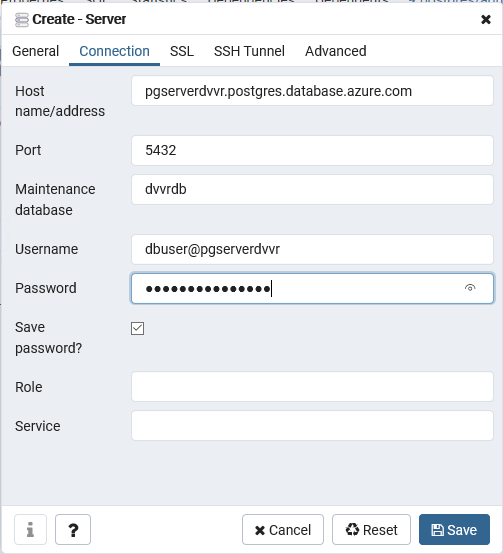
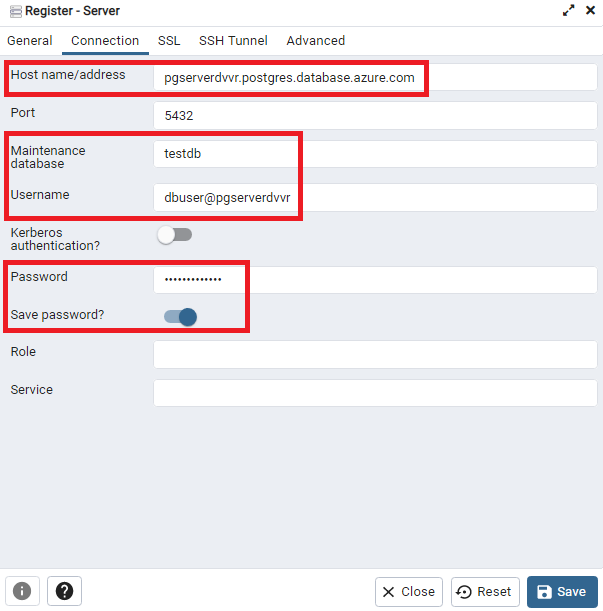
092222 DV

diff --git a/Azure Database for PostgreSQL Single Server/07 Managing database users in Azure Database for PostgreSQL Single Server/readme.md b/Azure Database for PostgreSQL Single Server/07 Managing database users in Azure Database for PostgreSQL Single Server/readme.md
@@ -15,7 +15,7 @@ After completing this lab, you will be able to:
 
 This lab considers that an Azure Database for PostgreSQL Single Server named pgserver[your name initials] exists with a server admin login named *admpg*, if not, create it or use another existing server before continuing with the lab.
 
-**Estimated Time:** 1 hour 35 minutes
+**Estimated Time:** 60 minutes
 
 ---
 
@@ -27,47 +27,38 @@ This exercise shows how to create additional admin users in Azure Database for P
 
 1. Connect to Microsoft Azure Portal
     
-   Open Microsoft Edge and navigate to the Azure Portal ([http://ms.portal.azure.com](http://ms.portal.azure.com)) to connect to Microsoft Azure Portal. Login with your subscriptions credential.
+   Open Microsoft Edge and navigate to the [Azure Portal](http://ms.portal.azure.com) to connect to Microsoft Azure Portal. Login with your subscriptions credential.
 
-1. Go to your Azure Database for MySQL Single server in any way you prefer to look for a resource on Azure, you will use following server information in the next step
+1. Go to your Azure Database for PostgreSQL Single server in any way you prefer to look for a resource on Azure. Get the connection information as you will use it during the lab
 
-   ![](Media/image0208.png)
-
-
+   ![Image0208](Media/image0208.png)
 
 1. Connect to your Azure Database for PostgreSQL Single Server using the details from the previous step
 
    Open **pgAdmin** and connect to your server using the admin user.
-   ![](Media/image0209.png)
-   ![](Media/image0210.png)
 
-   Double click on the entry you just created
+   ![Image0209](Media/image0209.png)
+   
+   Expand the server just registered, right click to the *postgres* database and open the **Query Tool**
 
-   ![](Media/image0211.png)
-
-   Open the Query Tool
-
-   ![](Media/image0212.png)
-
-
-
+   ![Image0212](Media/image0212.png)
 
 1. Review the default roles defined when The Azure Database for PostgreSQL Single Server is created
            
    The Azure Database for PostgreSQL Single Server is created with the 3 default roles defined.
+   - azure_pg_admin
+   - azure_superuser
+   - your server admin user
     
-   On the **postgres** database, run the following command:
+   To see all existing roles, execute:
     
    ```sql
    SELECT rolname FROM pg_roles;
    ```
    
    You will see the three default roles defined on every Azure Database for PostgreSQL Single Server:
-   - azure_pg_admin
-   - azure_superuser
-   - your server admin user
     
-   ![](Media/image0213.png)
+   ![Image0213](Media/image0213.png)
     
    >Your server admin user is a member of the *azure_pg_admin* role. However, the server admin account is not part of the azure_superuser role. Since this service is a managed PaaS service, only Microsoft is part of the super user role.
     
@@ -87,20 +78,18 @@ This exercise shows how to create additional admin users in Azure Database for P
     
    ```sql
    CREATE ROLE [new_user] WITH LOGIN NOSUPERUSER INHERIT CREATEDB CREATEROLE NOREPLICATION PASSWORD '[StrongPassword]';
-
    GRANT azure_pg_admin TO [new_user];
    ```
    >IMPORTANT: Replace *[new_user]* with your new username and replace *[StrongPassword]* with your own strong password.
 
-      For example:
+   For example:
 
    ```sql
    CREATE ROLE admin2 WITH LOGIN NOSUPERUSER INHERIT CREATEDB CREATEROLE NOREPLICATION PASSWORD 'SuperStrongPassword!';
-
    GRANT azure_pg_admin TO admin2;
    ```
     
-   ![](Media/image0118.png)
+   ![Image0118](Media/image0118.png)
 
 Congratulations!. You have successfully completed this exercise.
 
@@ -112,38 +101,27 @@ This exercise shows how to Create less privileged users and roles that have acce
 
 **Tasks**
 
-1. Connect to Microsoft Azure Portal
-    
-   Open Microsoft Edge and navigate to the Azure Portal ([http://ms.portal.azure.com](http://ms.portal.azure.com)) to connect to Microsoft Azure Portal. Login with your subscriptions credential.
+1. Connect to your Azure Database for PostgreSQL Single Server using the information retrieved in the previous exercise. 
 
-1. Go to your Azure Database for MySQL Single server in any way you prefer to look for a resource on Azure, you will use following server information in the next step
+   Using **pgAdmin**, connect to your server using the admin user.
 
-   ![](Media/image0208.png)
-
-
-
-1. Connect to your Azure Database for PostgreSQL Single Server using the details from the previous step
-
-   Open **pgAdmin** and connect to your server using the admin user.
-   ![](Media/image0209.png)
-   ![](Media/image0210.png)
-
-   Double click on the entry you just created
-
-   ![](Media/image0211.png)
-
-   Open the Query Tool
-
-   ![](Media/image0212.png)
-
+   Right click to the *postgres* database and open the **Query Tool**
+ 
 1. Create new database users
 
-   To create a new user and grant connect privileges to the new database for that user, on the **postgres** database, execute:
+   Create a new database, by executing:
+
+   ```sql
+   CREATE DATABASE testdb;
+   ```
+
+   Create a new user and grant CONNECT and CREATE privileges to the new user on the database, by executing:
+
+   >  Refer to the [PostgreSQL Privileges](https://www.postgresql.org/docs/current/ddl-priv.html) for further details on database roles and privileges.
 
    ```sql
    CREATE ROLE [new_user] WITH LOGIN NOSUPERUSER INHERIT NOCREATEROLE NOREPLICATION PASSWORD '[StrongPassword]';
-
-   GRANT CONNECT ON DATABASE [your initials]db TO [new_user];
+   GRANT CONNECT, CREATEON DATABASE [database_name] TO [new_user];
    ```
 
    >Replace *[new_user]* with the name of the user you want to create. Replace *[your initials]* with your initials if the database [your initials]db exists, if not, use a different database. Replace *[StrongPassword]* with your own strong password.
@@ -152,60 +130,36 @@ This exercise shows how to Create less privileged users and roles that have acce
 
    ```sql
    CREATE ROLE dbuser WITH LOGIN NOSUPERUSER INHERIT NOCREATEROLE NOREPLICATION PASSWORD 'A43.adjsa8.!s';
-
-   GRANT CONNECT ON DATABASE dvvrdb TO dbuser;
+   GRANT CONNECT, CREATE ON DATABASE testdb TO dbuser;
    ```
 
-
-
-   ![](Media/image0119.png)
-
-   Now you need to grant object permissions to the user, for example, to create tables or read tables.
-
-   To grant permissions to create schemas and tables to the new user, execute:
-
-   ```sql
-   GRANT CREATE ON DATABASE [your initials]db TO [user_name];
-   ```
-   >Replace *[user_name]* with the name of the user you created Replace *[your initials]* with your initials if the database [your initials]db exists, if not, use a different database.
-
-   For example:
-
-   ```sql
-   GRANT CREATE ON DATABASE dvvrdb TO dbuser;
-   ```
-
-
-
-   ![](Media/image0120.png)
-
-   Refer to the [PostgreSQL documentation](https://www.postgresql.org/docs/current/static/ddl-priv.html) for further details on database roles and privileges.
-
+   ![Image0119](Media/image0119.png)
+ 
 1. Log in to your server, using the new username and create a table
     
-   Using pgAdmin, connect to your database with *dbuser*.
+   Using **pgAdmin**, connect to your database with the user created in the previous task
     
    When registering the server, make sure you set the database where you granted permission in the previous tasks in the **Maintenance Database** field
     
-   ![](Media/image0121.png)
+   ![Image0121](Media/image0121.png)
     
-   Explore the database
+   Right click on your database (*testdb* in this example) and open the **Query Tool**
 
-   ![](Media/image0122.png)
-
-   Connected to the database, open the query tool. Create a table by executing:
+   Create a table by executing:
 
    ```sql
    CREATE TABLE public.testtable
    (   id integer not null,
        name character varying(25) not null,
        primary key (id)
-   )
+   );
    ```
+
+   ![Image0122](Media/image0122.png)
 
    List the tables in the database, you will see the table you just created.
 
-   ![](Media/image0123.png)
+   ![Image0123](Media/image0123.png)
 
 Congratulations!. You have successfully completed this exercise.
 
@@ -219,28 +173,14 @@ This exercise shows how to configure Azure Active Directory access with Azure Da
 
 1. Connect to Microsoft Azure Portal
     
-   Open Microsoft Edge and navigate to the Azure Portal ([http://ms.portal.azure.com](http://ms.portal.azure.com)) to connect to Microsoft Azure Portal. Login with your subscriptions credential.
+   Open Microsoft Edge and navigate to the [Azure Portal](http://ms.portal.azure.com) to connect to Microsoft Azure Portal. Login with your subscriptions credential.
 
-1. Go to your Azure Database for MySQL Single server in any way you prefer to look for a resource on Azure, you will use following server information in the next step
+1. Go to your PostgreSQL Server 
+
+   Go to your Azure Database for PostgreSQL Single server in any way you prefer to look for a resource on Azure.
 
    ![](Media/image0208.png)
 
-
-
-1. Connect to your Azure Database for PostgreSQL Single Server using the details from the previous step
-
-   Open **pgAdmin** and connect to your server using the admin user.
-   ![](Media/image0209.png)
-   ![](Media/image0210.png)
-
-   Double click on the entry you just created
-
-   ![](Media/image0211.png)
-
-   Open the Query Tool
-
-   ![](Media/image0212.png)
-   
 1. Set the Azure Active Directory admin user
     
    Under the **Settings** section in the sidebar, select **Active Directory admin**

diff --git a/Azure Database for MySQL Single Server/08 Managing database users in Azure Database for MySQL Single Server/readme.md b/Azure Database for MySQL Single Server/08 Managing database users in Azure Database for MySQL Single Server/readme.md
@@ -140,7 +140,9 @@ This exercise shows how to Create less privileged users and roles that have acce
 
 1. Create new database users
 
-   To create a new user and grant connect privileges to the new database for that user, execute:
+   Create a new database, create a new user and and grant CRAETE and INSERT privileges to the new user on the database, by executing:
+
+   >Refer to the [Privileges Provided by MySQL](https://dev.mysql.com/doc/refman/8.0/en/privileges-provided.html) for further details on database roles and privileges.
 
    ```sql
    CREATE DATABASE <database_name>;
@@ -159,8 +161,6 @@ This exercise shows how to Create less privileged users and roles that have acce
    >IMPORTANT: Replace *\<username\>* with your new username and replace *\<password\>* with your own strong password.
 
    ![Image0205](Media/image0205.png)
-
-   Refer to the [Privileges Provided by MySQL](https://dev.mysql.com/doc/refman/8.0/en/privileges-provided.html) for further details on database roles and privileges.
 
 1. Verify the grants within the database.
     
@@ -216,7 +216,6 @@ This exercise shows how to Create less privileged users and roles that have acce
     ![Image0209](Media/image0209.png)
 
     The delete fails because the user only has permission to create objects and to insert, not delete. 
-
 
 Congratulations!. You have successfully completed this exercise.
 
